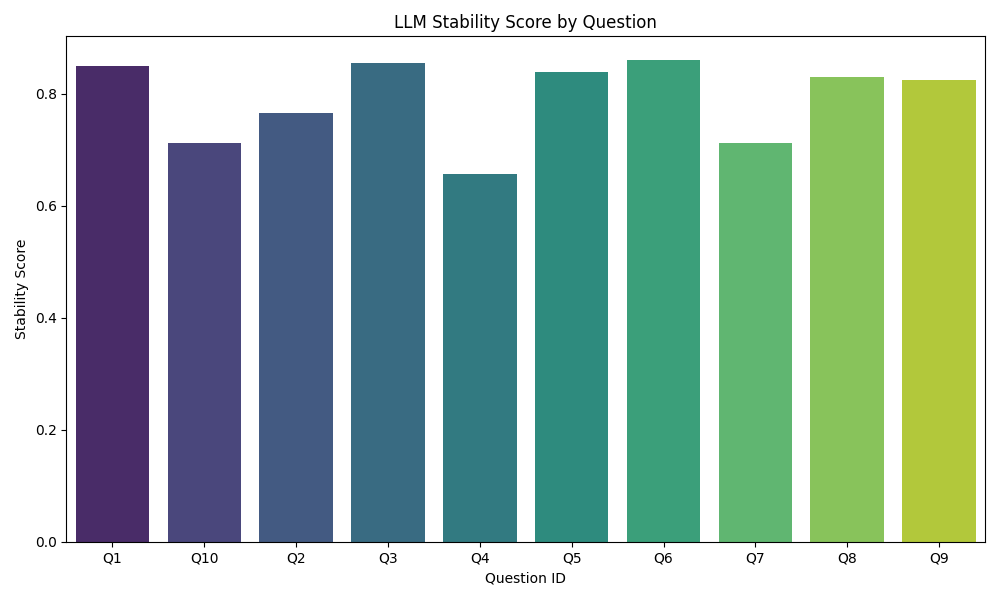
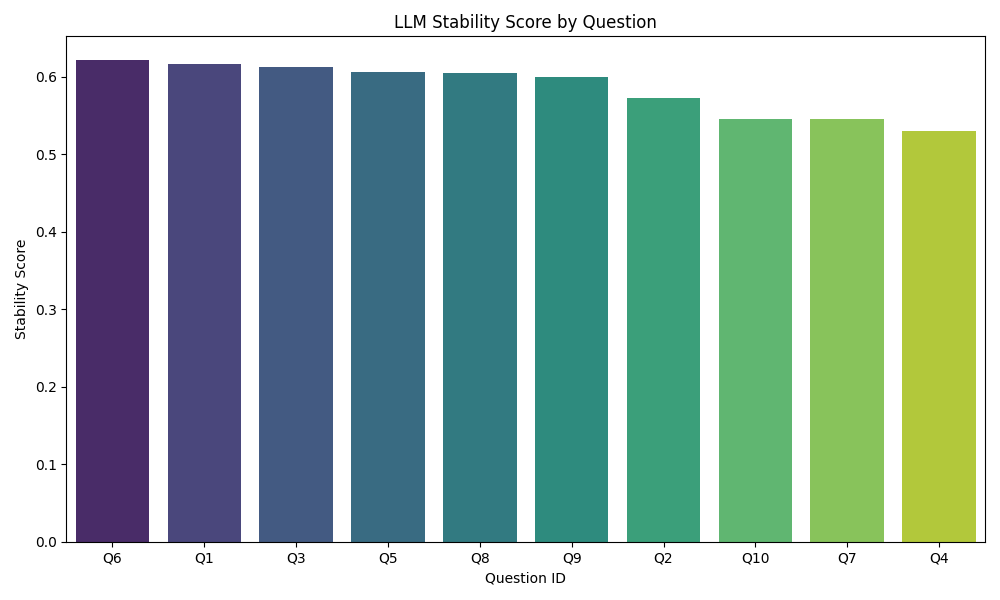
improving stability score

diff --git a/analysis/final_evaluation.py b/analysis/final_evaluation.py
@@ -1,0 +1,27 @@
+import pandas as pd
+
+SIM_FILE = "analysis/final_results.csv"
+CONTR_FILE = "analysis/contradiction_results.csv"
+
+# load data
+sim_df = pd.read_csv(SIM_FILE)
+contr_df = pd.read_csv(CONTR_FILE)
+
+# merge datasets
+df = sim_df.merge(contr_df, on="qid")
+
+# improved stability score
+df["final_stability_score"] = (
+    0.7 * df["avg_similarity"]
+    - 0.2 * df["std_similarity"]
+    - 0.1 * df["contradiction_rate"]
+)
+
+# rank questions by stability
+df = df.sort_values("final_stability_score", ascending=False)
+
+# save results
+df.to_csv("analysis/final_evaluation.csv", index=False)
+
+print("\nFinal Evaluation Results\n")
+print(df)

diff --git a/analysis/visualization.py b/analysis/visualization.py
@@ -2,15 +2,16 @@ import pandas as pd
 import matplotlib.pyplot as plt
 import seaborn as sns
 
-INPUT_FILE = "analysis/final_results.csv"
+INPUT_FILE = "analysis/final_evaluation.csv"
 
 df = pd.read_csv(INPUT_FILE)
+df = df.sort_values("final_stability_score", ascending=False)
 
 plt.figure(figsize=(10,6))
 
 sns.barplot(
     x="qid",
-    y="stability_score",
+    y="final_stability_score",
     data=df,
     palette="viridis"
 )
